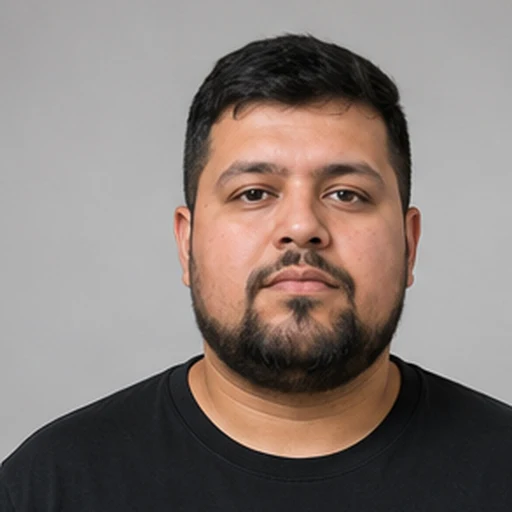
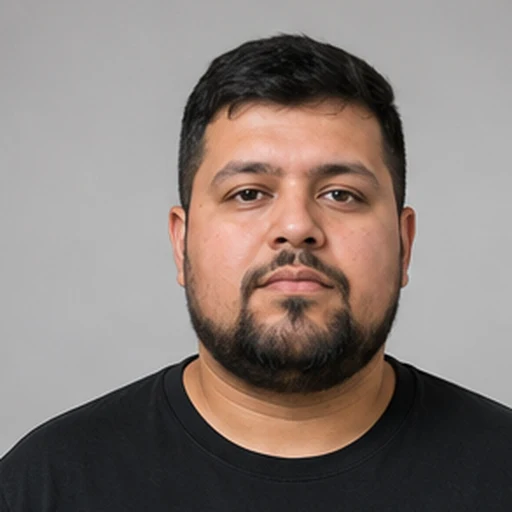
Face-centered recrops, RamBam studio portrait in black tee, matrix axes + weekly movement
All twelve headshots/portraits recropped centered on the subject's head
(dark-pixel centroid against the studio backgrounds) with consistent
headroom. RamBam's white-polo hallway photo replaced by a generated studio
portrait (same likeness, black crew-neck, gray backdrop matching the other
sheets); source saved to his reference folder.

Contender Matrix: labeled axes (#1-#12 ends, rotated y-label), a how-to-read
disclosure defining Current Strength Rank vs Championship Ceiling Rank, week
selector wired like Power Rankings, and week-over-week movement — moved
faces get a red dot, the detail card shows strength/ceiling deltas.

diff --git a/components/matrix/MatrixPlot.tsx b/components/matrix/MatrixPlot.tsx
@@ -3,6 +3,7 @@
 import { useState } from "react";
 import Link from "next/link";
 import ManagerPortrait from "@/components/teams/ManagerPortrait";
+import { signed } from "@/lib/format";
 
 export type MatrixPoint = {
   teamId: string;
@@ -10,6 +11,8 @@ export type MatrixPoint = {
   manager: string;
   strengthRank: number;
   ceilingRank: number;
+  strengthDelta?: number; // + = improved since last week
+  ceilingDelta?: number;
   tier?: string;
   archetype?: string;
   titleOdds: number;
@@ -26,60 +29,88 @@ export default function MatrixPlot({ points }: { points: MatrixPoint[] }) {
 
   return (
     <div>
-      <div className="relative border-2 border-rule-strong bg-surface aspect-square sm:aspect-[4/3] w-full max-w-[860px]">
-        {/* quadrant rules */}
-        <div className="absolute inset-y-0 left-1/2 w-px bg-rule" />
-        <div className="absolute inset-x-0 top-1/2 h-px bg-rule" />
-
-        <QuadrantLabel className="top-2 right-2 text-right">
-          True Contenders
-        </QuadrantLabel>
-        <QuadrantLabel className="top-2 left-2">
-          Dangerous If It Hits
-        </QuadrantLabel>
-        <QuadrantLabel className="bottom-2 right-2 text-right">
-          Regular-Season Merchants
-        </QuadrantLabel>
-        <QuadrantLabel className="bottom-2 left-2">The Long Season</QuadrantLabel>
-
-        {points.map((p) => (
-          <button
-            key={p.teamId}
-            onClick={() =>
-              setSelected(selected === p.teamId ? null : p.teamId)
-            }
-            aria-pressed={selected === p.teamId}
-            aria-label={`${p.teamName}: strength rank ${p.strengthRank}, ceiling rank ${p.ceilingRank}`}
-            className={`absolute -translate-x-1/2 -translate-y-1/2 transition-transform ${
-              selected === p.teamId ? "z-20 scale-125" : "z-10 hover:scale-110"
-            }`}
-            style={{
-              left: `calc(${(xPct(p.strengthRank) * 0.86 + 7).toFixed(1)}%)`,
-              top: `calc(${(yPct(p.ceilingRank) * 0.82 + 9).toFixed(1)}%)`,
-            }}
+      <div className="flex gap-2 max-w-[900px]">
+        {/* y-axis */}
+        <div className="flex flex-col justify-between items-center py-1 w-8 shrink-0">
+          <span className="font-data text-[11px] font-semibold text-ink">#1</span>
+          <span
+            className="font-condensed font-bold uppercase tracking-[0.1em] text-[11px] text-ink-soft"
+            style={{ writingMode: "vertical-rl", transform: "rotate(180deg)" }}
           >
-            <ManagerPortrait
-              teamId={p.teamId}
-              teamName={p.teamName}
-              manager={p.manager}
-              size="sm"
-              className={selected === p.teamId ? "border-accent" : ""}
-            />
-          </button>
-        ))}
-      </div>
+            Championship ceiling rank
+          </span>
+          <span className="font-data text-[11px] font-semibold text-ink-faint">#12</span>
+        </div>
 
-      <div className="flex justify-between max-w-[860px] mt-2 font-condensed font-bold uppercase tracking-[0.06em] text-xs text-ink-faint">
-        <span>← Weaker today</span>
-        <span>Current strength</span>
-        <span>Stronger today →</span>
+        <div className="flex-1 min-w-0">
+          <div className="relative border-2 border-rule-strong bg-surface aspect-square sm:aspect-[4/3] w-full">
+            <div className="absolute inset-y-0 left-1/2 w-px bg-rule" />
+            <div className="absolute inset-x-0 top-1/2 h-px bg-rule" />
+
+            <QuadrantLabel className="top-2 right-2 text-right">
+              True Contenders
+            </QuadrantLabel>
+            <QuadrantLabel className="top-2 left-2">
+              Dangerous If It Hits
+            </QuadrantLabel>
+            <QuadrantLabel className="bottom-2 right-2 text-right">
+              Regular-Season Merchants
+            </QuadrantLabel>
+            <QuadrantLabel className="bottom-2 left-2">
+              The Long Season
+            </QuadrantLabel>
+
+            {points.map((p) => {
+              const moved =
+                (p.strengthDelta ?? 0) !== 0 || (p.ceilingDelta ?? 0) !== 0;
+              return (
+                <button
+                  key={p.teamId}
+                  onClick={() =>
+                    setSelected(selected === p.teamId ? null : p.teamId)
+                  }
+                  aria-pressed={selected === p.teamId}
+                  aria-label={`${p.teamName}: current strength rank ${p.strengthRank}, championship ceiling rank ${p.ceilingRank}`}
+                  className={`absolute -translate-x-1/2 -translate-y-1/2 transition-transform ${
+                    selected === p.teamId
+                      ? "z-20 scale-125"
+                      : "z-10 hover:scale-110"
+                  }`}
+                  style={{
+                    left: `${(xPct(p.strengthRank) * 0.86 + 7).toFixed(1)}%`,
+                    top: `${(yPct(p.ceilingRank) * 0.82 + 9).toFixed(1)}%`,
+                  }}
+                >
+                  <ManagerPortrait
+                    teamId={p.teamId}
+                    teamName={p.teamName}
+                    manager={p.manager}
+                    size="sm"
+                    className={selected === p.teamId ? "border-accent" : ""}
+                  />
+                  {moved && (
+                    <span className="absolute -top-1.5 -right-1.5 w-3 h-3 bg-accent border border-paper rounded-full" />
+                  )}
+                </button>
+              );
+            })}
+          </div>
+
+          {/* x-axis */}
+          <div className="flex justify-between items-baseline mt-1.5">
+            <span className="font-data text-[11px] font-semibold text-ink-faint">
+              #12
+            </span>
+            <span className="font-condensed font-bold uppercase tracking-[0.1em] text-[11px] text-ink-soft">
+              Current strength rank
+            </span>
+            <span className="font-data text-[11px] font-semibold text-ink">#1</span>
+          </div>
+        </div>
       </div>
-      <p className="font-condensed font-bold uppercase tracking-[0.06em] text-xs text-ink-faint mt-1">
-        ↑ Higher championship ceiling toward the top
-      </p>
 
       {sel ? (
-        <div className="mt-6 border-2 border-rule-strong bg-surface p-5 max-w-[860px] flex items-center gap-5 flex-wrap">
+        <div className="mt-6 border-2 border-rule-strong bg-surface p-5 max-w-[900px] flex items-center gap-5 flex-wrap">
           <ManagerPortrait
             teamId={sel.teamId}
             teamName={sel.teamName}
@@ -96,9 +127,11 @@ export default function MatrixPlot({ points }: { points: MatrixPoint[] }) {
             <div className="font-data text-sm text-ink-soft mt-2 flex flex-wrap gap-x-5 gap-y-1">
               <span>
                 Strength <strong className="text-ink">#{sel.strengthRank}</strong>
+                <Delta d={sel.strengthDelta} />
               </span>
               <span>
                 Ceiling <strong className="text-ink">#{sel.ceilingRank}</strong>
+                <Delta d={sel.ceilingDelta} />
               </span>
               <span>
                 Title odds <strong className="text-ink">{sel.titleOdds}%</strong>
@@ -117,11 +150,24 @@ export default function MatrixPlot({ points }: { points: MatrixPoint[] }) {
         </div>
       ) : (
         <p className="font-data text-xs text-ink-faint mt-6">
-          Tap a face for the details. Positions are ranks, 1 through 12, not
-          invented percentages.
+          Tap a face for details. A red dot means that team moved on either
+          axis since the previous week.
         </p>
       )}
     </div>
+  );
+}
+
+function Delta({ d }: { d?: number }) {
+  if (!d) return null;
+  return (
+    <span
+      className={`ml-1 text-xs font-semibold ${
+        d > 0 ? "text-positive" : "text-negative"
+      }`}
+    >
+      {d > 0 ? `↑${d}` : `↓${-d}`}
+    </span>
   );
 }
 

diff --git a/app/contender-matrix/page.tsx b/app/contender-matrix/page.tsx
@@ -1,30 +1,50 @@
 import type { Metadata } from "next";
-import { getLatestWeek, getTeams, getWeekSnapshot } from "@/lib/data";
+import {
+  getAvailableWeeks,
+  getTeams,
+  getWeekSnapshot,
+  parseWeekParam,
+} from "@/lib/data";
 import { publishedDate, weekLabel } from "@/lib/format";
+import WeekSelector from "@/components/rankings/WeekSelector";
 import MatrixPlot, { type MatrixPoint } from "@/components/matrix/MatrixPlot";
 
 export const metadata: Metadata = {
   title: "Contender Matrix",
   description:
-    "Who is strong now versus dangerous later. Current strength against championship ceiling, ranks only.",
+    "Who is strong now versus dangerous later. Current strength rank against championship ceiling rank, week over week.",
 };
 
-export default function ContenderMatrixPage() {
-  const week = getLatestWeek();
+export default async function ContenderMatrixPage({
+  searchParams,
+}: {
+  searchParams: Promise<{ week?: string }>;
+}) {
+  const week = parseWeekParam((await searchParams).week);
   const snapshot = getWeekSnapshot(week);
   const teams = getTeams();
+  const weeks = getAvailableWeeks();
   if (!snapshot) return null;
+
+  const prevIndex = weeks.findIndex((w) => String(w) === String(week)) - 1;
+  const prev = prevIndex >= 0 ? getWeekSnapshot(weeks[prevIndex]) : undefined;
 
   const points: MatrixPoint[] = snapshot.teams
     .filter((t) => t.ceilingRank !== undefined)
     .map((t) => {
       const meta = teams.find((m) => m.teamId === t.teamId);
+      const before = prev?.teams.find((p) => p.teamId === t.teamId);
       return {
         teamId: t.teamId,
         teamName: meta?.teamName ?? t.teamId,
         manager: meta?.manager ?? "",
         strengthRank: t.powerRank,
         ceilingRank: t.ceilingRank!,
+        strengthDelta: before ? before.powerRank - t.powerRank : undefined,
+        ceilingDelta:
+          before?.ceilingRank !== undefined
+            ? before.ceilingRank - t.ceilingRank!
+            : undefined,
         tier: t.tier,
         archetype: t.archetype,
         titleOdds: t.titleOdds,
@@ -39,14 +59,39 @@ export default function ContenderMatrixPage() {
         Strong Now vs Dangerous Later
       </h1>
       <p className="font-condensed font-medium mt-5 text-xl sm:text-2xl text-ink-soft max-w-[640px] leading-snug">
-        Current strength against championship ceiling. Ranks, not vibes — and
-        deliberately not fake-precision percentages.
+        Every team plotted on two questions: how good is the roster today, and
+        how scary is its best December version?
       </p>
-      <p className="font-data text-xs text-ink-faint mt-4 mb-8">
-        {weekLabel(week)} board · Updated {publishedDate(snapshot.publishedAt)}{" "}
-        · Ceiling ranks from the preseason analysis; they move with trades,
-        breakouts, and injuries — not with one loud scoring week.
+
+      <details className="mt-5 max-w-[640px]">
+        <summary className="eyebrow text-accent cursor-pointer">
+          How to read this ↓
+        </summary>
+        <div className="font-data text-sm text-ink-soft mt-3 leading-relaxed space-y-2">
+          <p>
+            <strong className="text-ink">Horizontal — Current Strength
+            Rank (1–12).</strong> The Power Ranking this week. Right is
+            stronger. This moves weekly with results and roster quality.
+          </p>
+          <p>
+            <strong className="text-ink">Vertical — Championship Ceiling
+            Rank (1–12).</strong> A separate ranking of each roster&apos;s best
+            realistic December outcome. Higher is scarier. It moves with
+            trades, breakouts, injuries, and role changes — never with one
+            loud scoring week.
+          </p>
+          <p>
+            Both are ranks on purpose. Nobody has to pretend a roster is an
+            &quot;87.9.&quot;
+          </p>
+        </div>
+      </details>
+
+      <p className="font-data text-xs text-ink-faint mt-4 mb-6">
+        {weekLabel(week)} board · Updated {publishedDate(snapshot.publishedAt)}
       </p>
+
+      <WeekSelector weeks={weeks} selected={week} />
 
       <MatrixPlot points={points} />
     </div>
